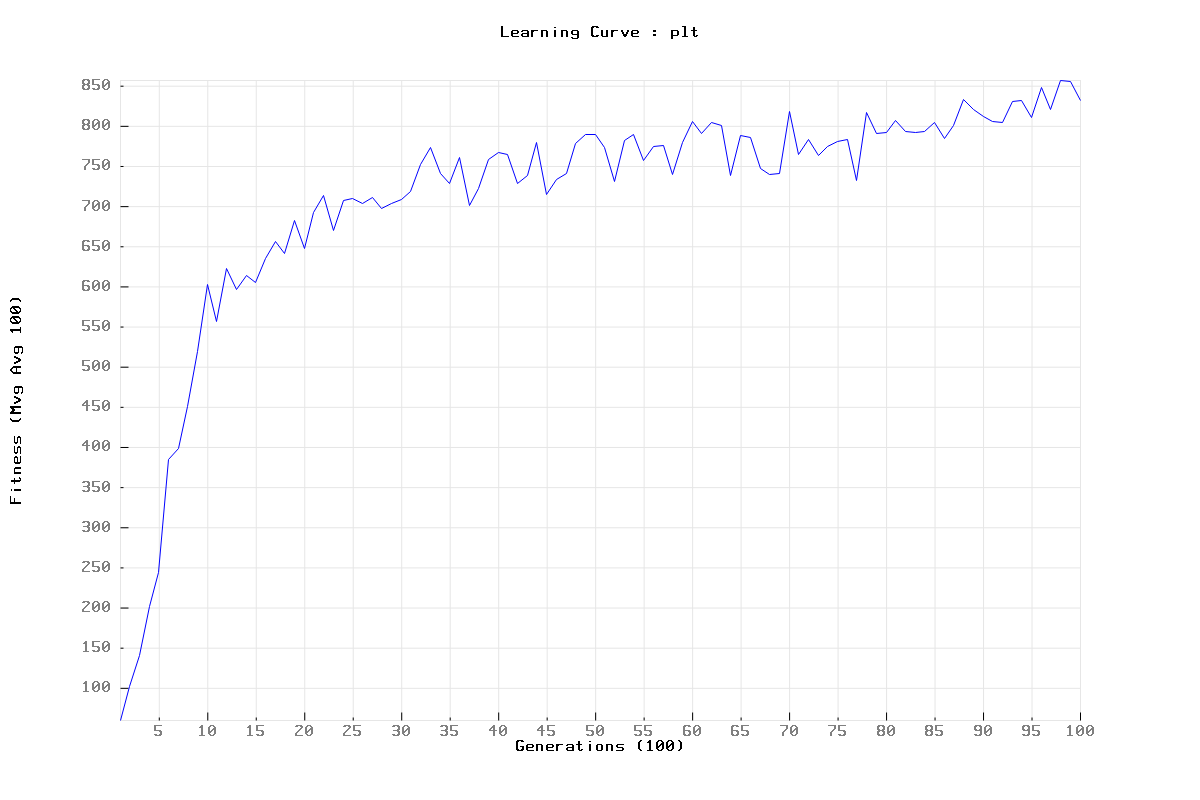
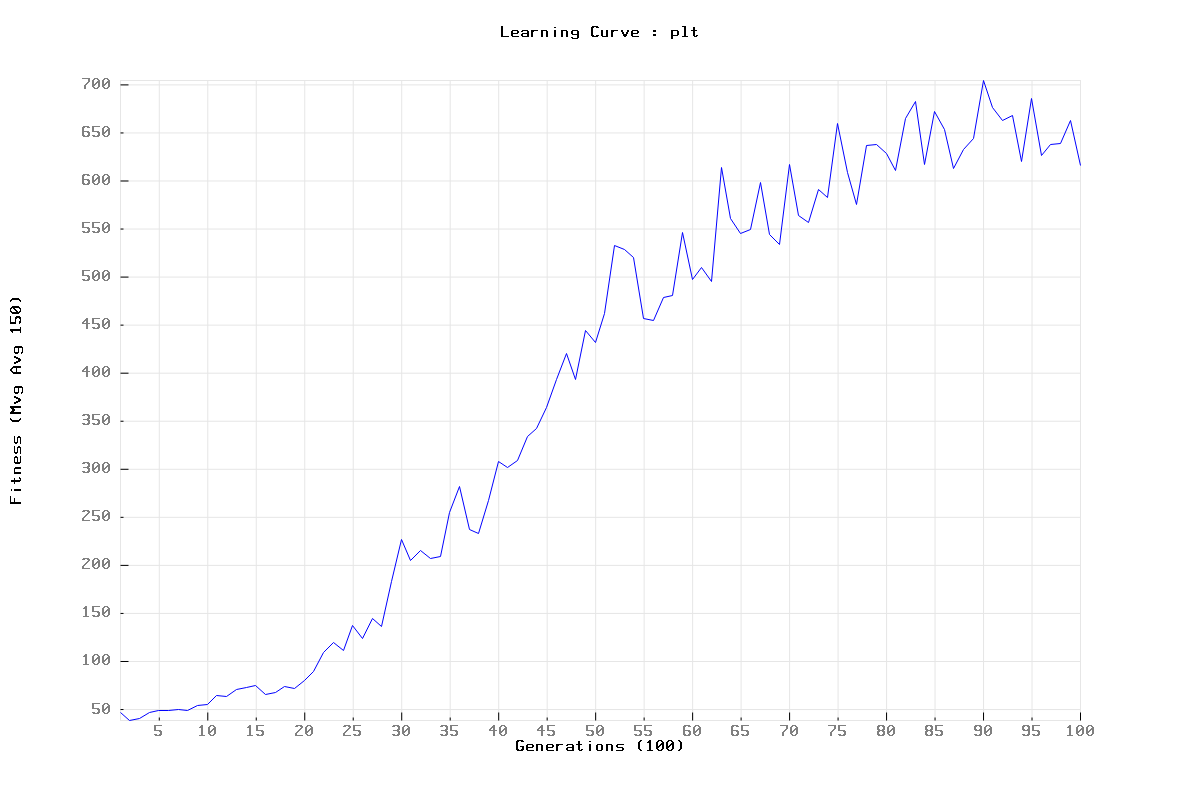
conf

diff --git a/include/env/conf.hpp b/include/env/conf.hpp
@@ -223,13 +223,13 @@ const size_t DefaultConf<T>::POPULATION_SIZE = 150;
 template<typename T>
 const size_t DefaultConf<T>::END_POPULATION_SIZE = 0; // (0=false) -> const population size // &&
 template<typename T>
-const size_t DefaultConf<T>::POPULATION_GENS_INC = 200; // (0=false) -> const population size // &&
+const size_t DefaultConf<T>::POPULATION_GENS_INC = 150; // (0=false) -> const population size // &&
 template<typename T>
 const size_t DefaultConf<T>::POPULATION_INC_FREQ = 10; // (0=false) -> const population size
 template<typename T>
 const size_t DefaultConf<T>::ACT_REPEAT = 3;
 template<typename T>
-const size_t DefaultConf<T>::MVG_AVG = 100;
+const size_t DefaultConf<T>::MVG_AVG = 150;
 template<typename T>
 const size_t DefaultConf<T>::PLT_FREQ = 0; // (0=false) -> plot at end train only
 template<typename T>

diff --git a/README.md b/README.md
@@ -150,11 +150,11 @@ CROSSOVER_PROB       = 0.75f
 STALE_SPECIES        = 15
 POPULATION_SIZE      = 150
 END_POPULATION_SIZE  = 0
-POPULATION_GENS_INC  = 200
+POPULATION_GENS_INC  = 150
 POPULATION_INC_FREQ  = 10
 
 ACT_REPEAT           = 3
-MVG_AVG              = 100
+MVG_AVG              = 150
 PLT_FREQ             = 0
 SAV_FREQ             = 1
 
